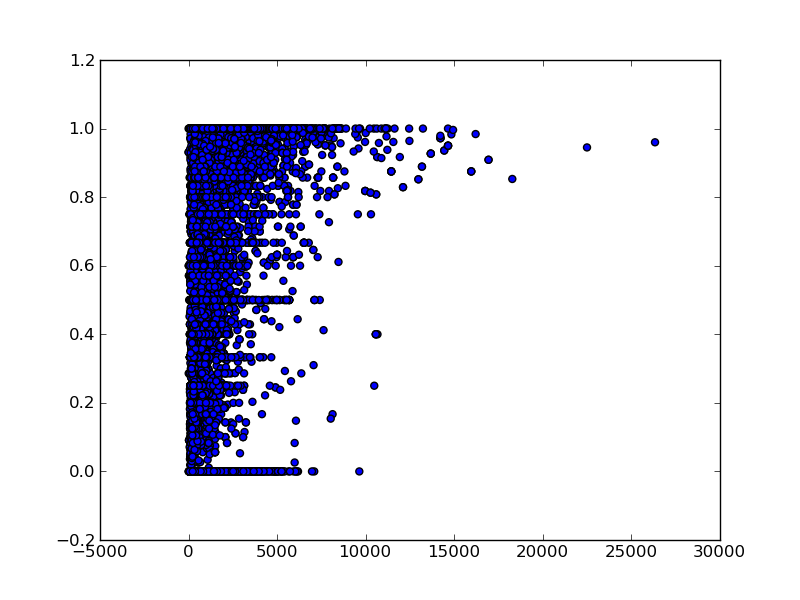
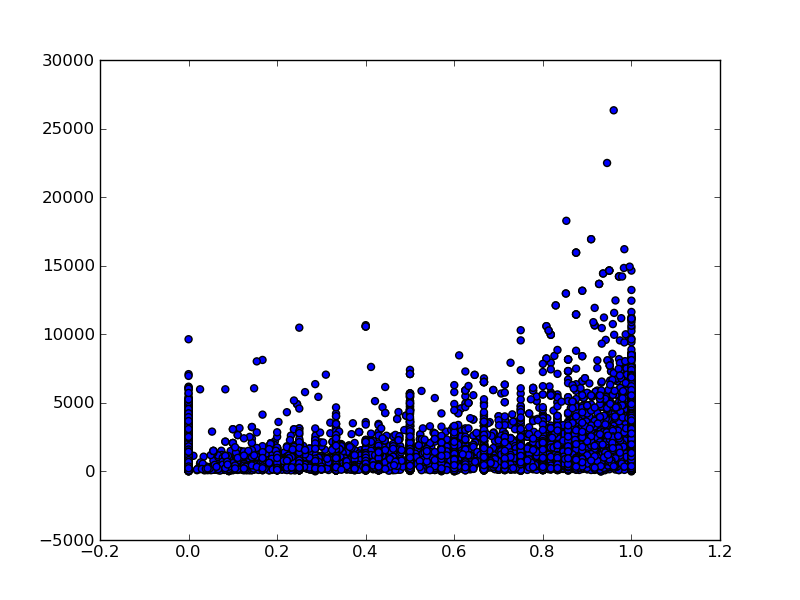
stuff

diff --git a/sttuff.py b/sttuff.py
@@ -83,6 +83,7 @@ for row in rows:
 print 'pearson correlation btwn lengthand helpfullness:', stats.pearsonr(lengths, helpfullness)
 
 plt.figure()
-plt.scatter(lengths, helpfullness)
+plt.axis([0, 1, 0, 26332])
+plt.scatter(helpfullness, lengths)
 plt.savefig("length_helpfullness_scatter.png")
 plt.close()
